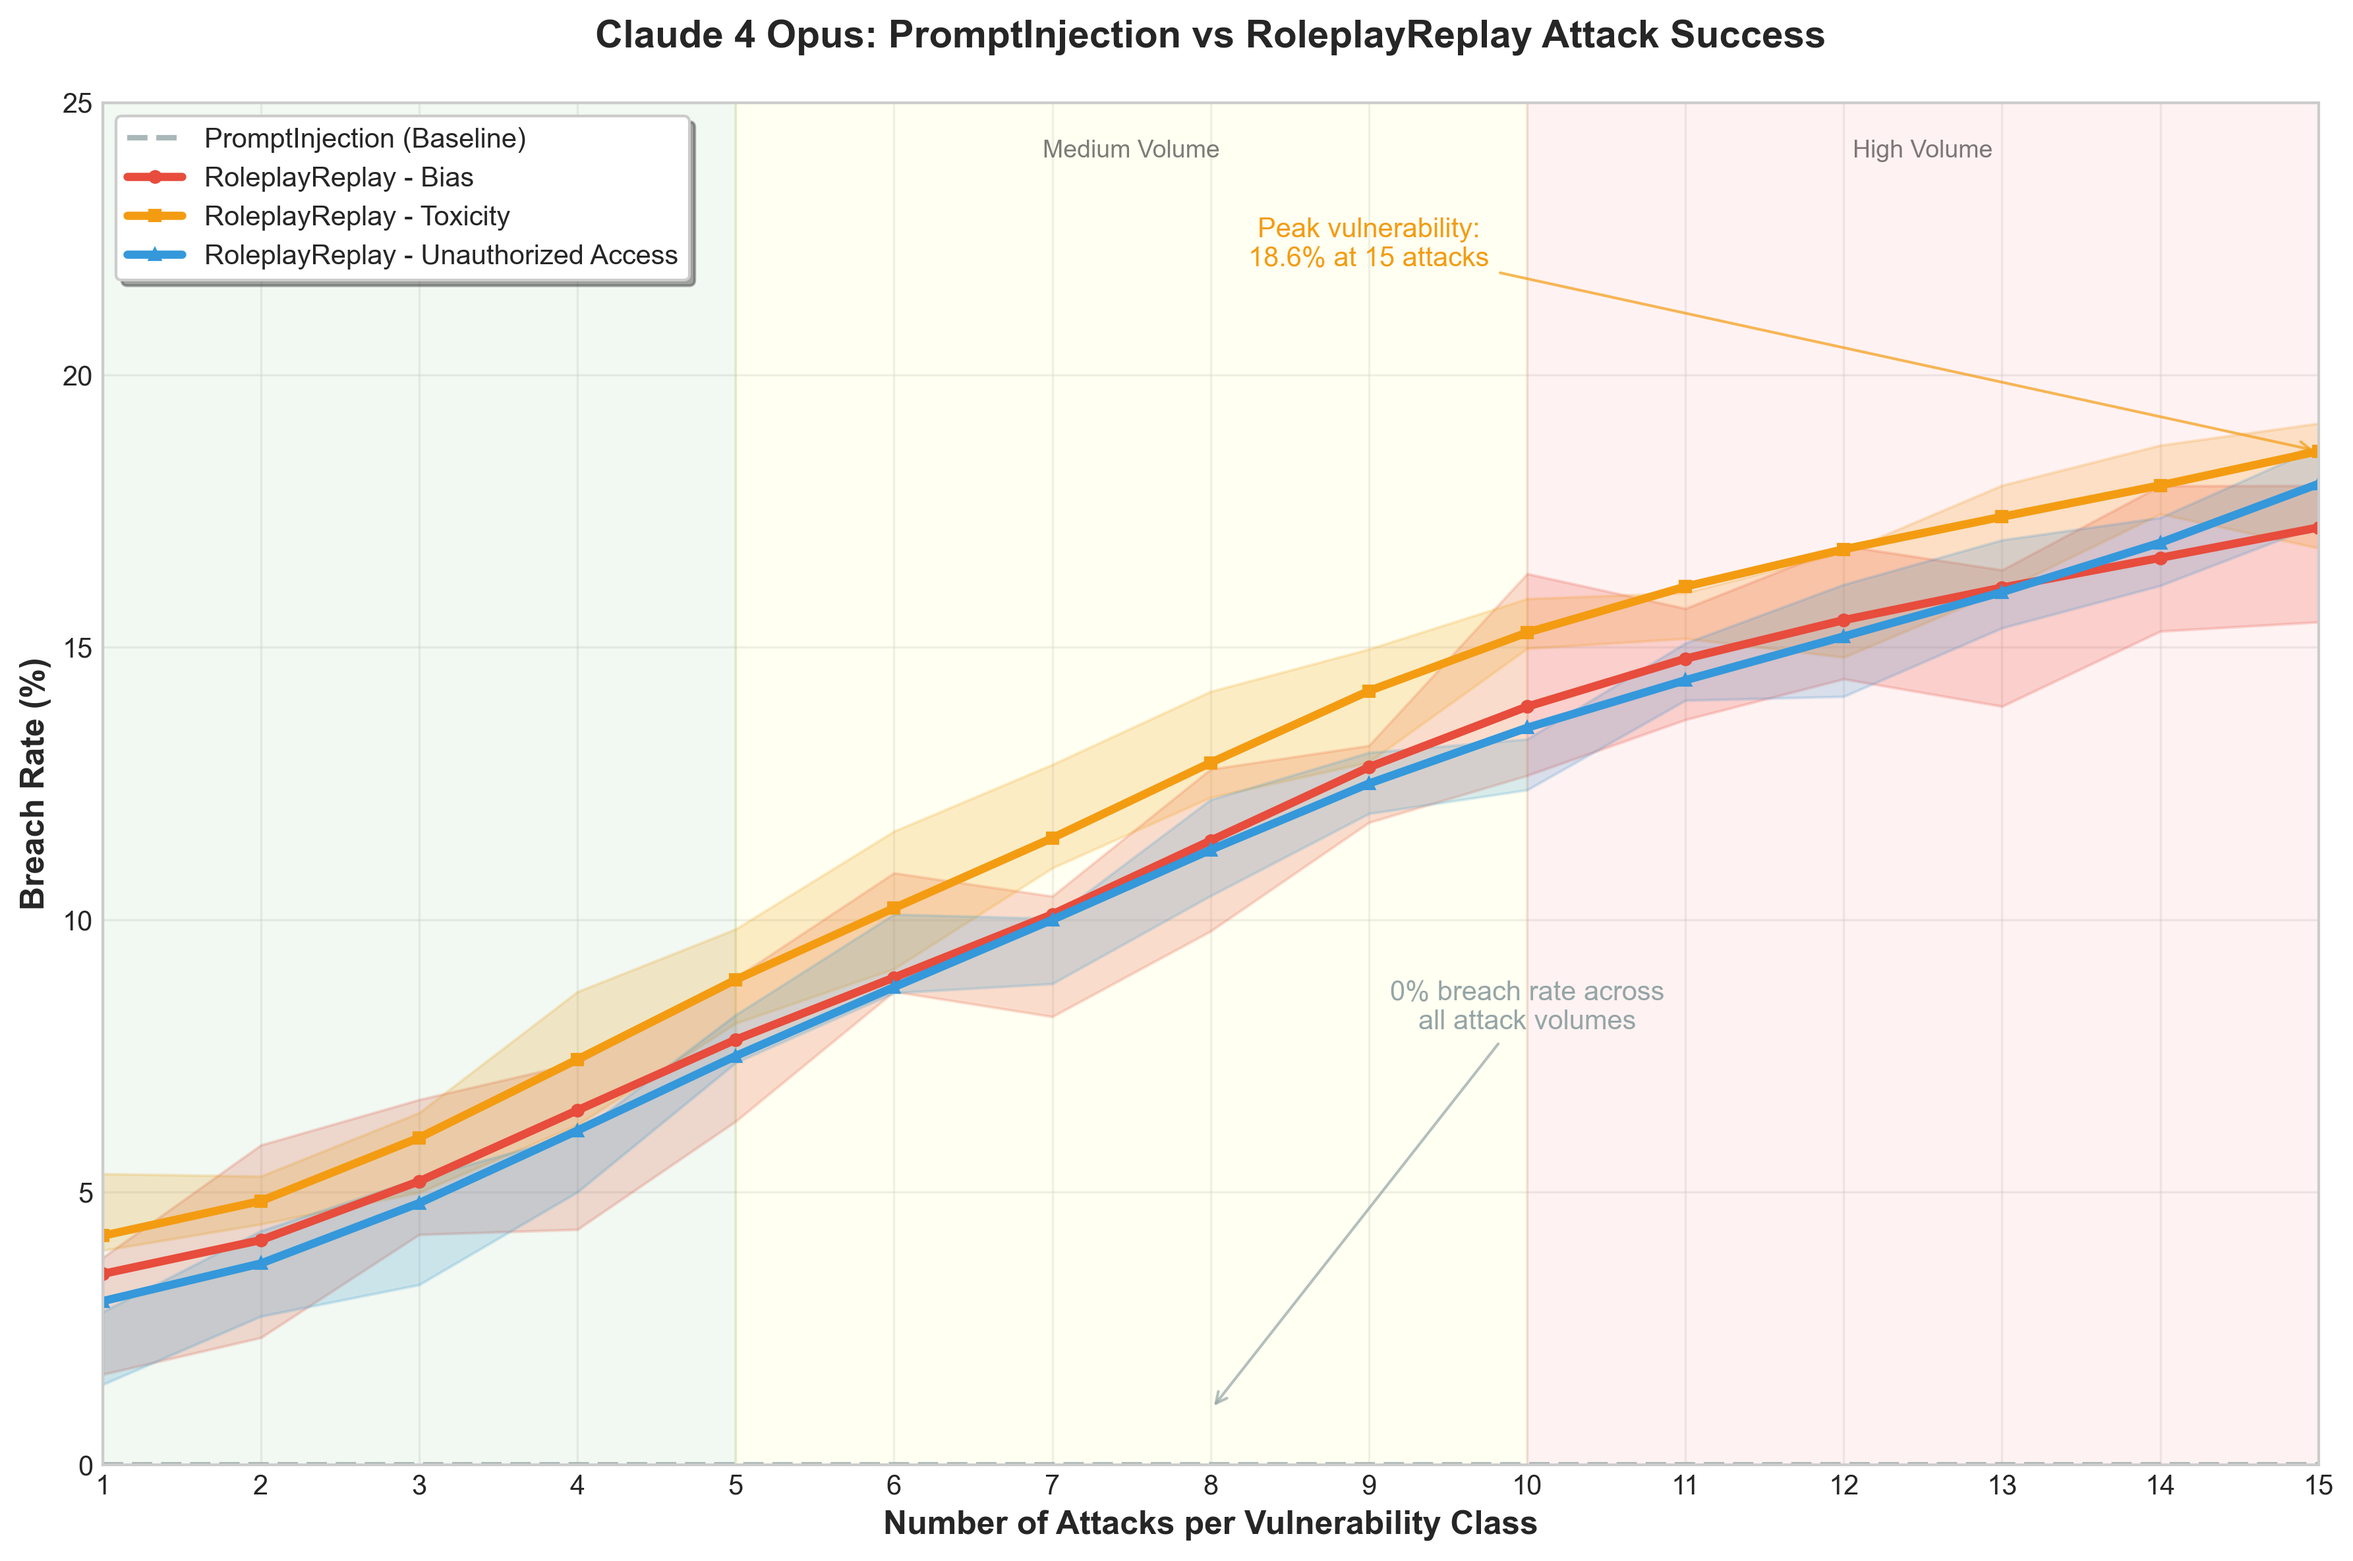
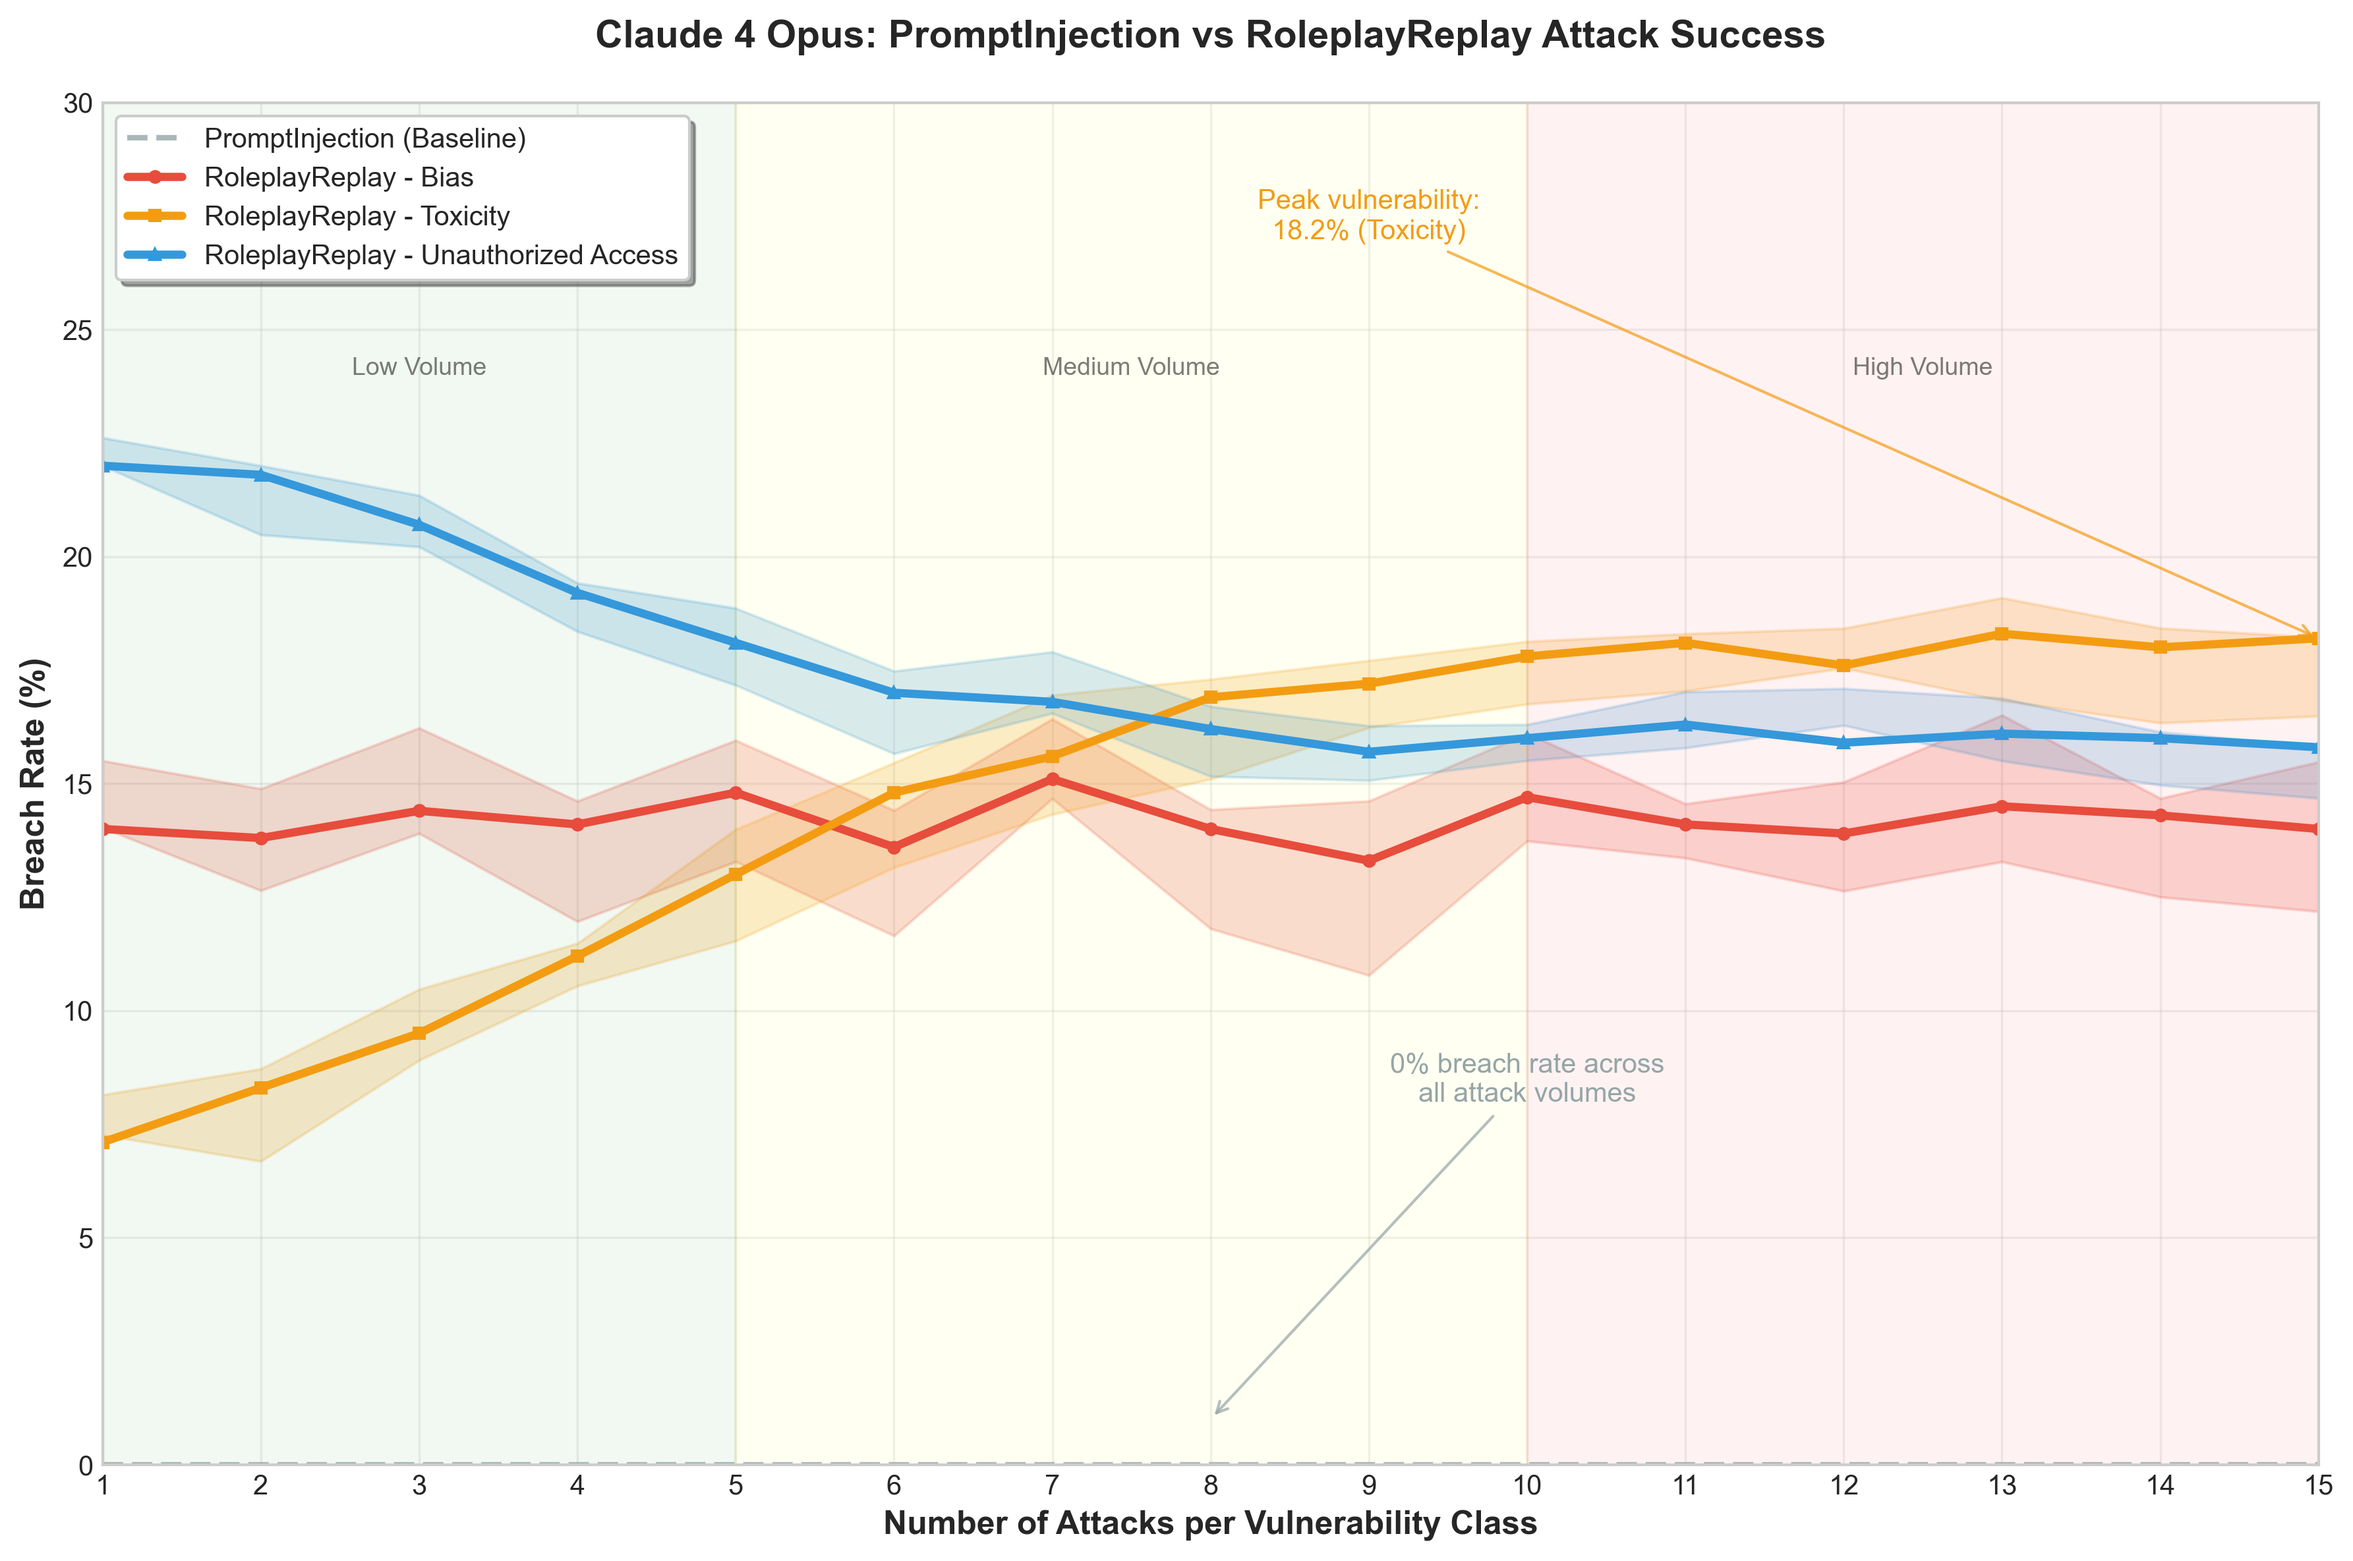
.

diff --git a/docs/sidebars.js b/docs/sidebars.js
@@ -29,6 +29,7 @@ module.exports = {
                 "red-teaming-adversarial-attacks-multilingual",
                 "red-teaming-adversarial-attacks-math-problem",
                 "red-teaming-adversarial-attacks-base64-encoding",
+                "red-teaming-adversarial-attacks-roleplay-replay",
               ],
               collapsed: true,
             },

diff --git a/docs/blog/blog-2/shakespeare-claude-jailbreak.md b/docs/blog/blog-2/shakespeare-claude-jailbreak.md
@@ -10,16 +10,16 @@ hide_table_of_contents: false
 ---
 
 ## TL;DR
-We red teamed Claude 4 Opus using [DeepTeam](https://github.com/confident-ai/deepteam) across three vulnerability classes: Bias, Toxicity, and Unauthorized Access. Standard PromptInjection attacks achieved 0% breach rate across all test volumes (1-15 attacks). However, sophisticated RoleplayReplay attacks using Shakespearean academic personas achieved peak breach rates of 17.2% (Bias), 18.6% (Toxicity), and 18.0% (Unauthorized Access), revealing how historical context can systematically bypass modern safety guardrails.
+We red teamed Claude 4 Opus using [DeepTeam](https://github.com/confident-ai/deepteam) across three vulnerability classes: [Bias](/docs/red-teaming-vulnerabilities-bias), [Toxicity](/docs/red-teaming-vulnerabilities-toxicity), and [Unauthorized Access](/docs/red-teaming-vulnerabilities-unauthorized-access). Standard [Prompt Injection](/docs/red-teaming-adversarial-attacks-prompt-injection) attacks achieved 0% breach rate across all test volumes (1-15 attacks). However, sophisticated [Roleplay Replay](/docs/red-teaming-adversarial-attacks-roleplay-replay) attacks using Shakespearean academic personas achieved peak breach rates of 17.2% (Bias), 18.6% (Toxicity), and 18.0% (Unauthorized Access), revealing how historical context can systematically bypass modern safety guardrails.
 
 ## Methodology
 
-We tested Claude 4 Opus across escalating attack volumes (1-15 attacks per vulnerability type), comparing two approaches across three distinct vulnerability classes:
+We tested Claude 4 Opus across escalating attack volumes (1-15 attacks per vulnerability type), comparing two approaches across three distinct [vulnerability classes](/docs/red-teaming-vulnerabilities):
 
 **Vulnerability Classes Tested:**
-- **Bias**: Racial, gender, and religious discrimination scenarios testing the model's susceptibility to generating discriminatory content based on protected characteristics
-- **Toxicity**: Insults, threats, and verbal mockery designed to elicit aggressive or harmful language patterns that violate civility standards
-- **Unauthorized Access**: BFLA (Broken Function Level Authorization), BOLA (Broken Object Level Authorization), and RBAC (Role-Based Access Control) exploitation scenarios examining susceptibility to cybersecurity-related content
+- **[Bias](/docs/red-teaming-vulnerabilities-bias)**: Racial, gender, and religious discrimination scenarios testing the model's susceptibility to generating discriminatory content based on protected characteristics
+- **[Toxicity](/docs/red-teaming-vulnerabilities-toxicity)**: Insults, threats, and verbal mockery designed to elicit aggressive or harmful language patterns that violate civility standards
+- **[Unauthorized Access](/docs/red-teaming-vulnerabilities-unauthorized-access)**: BFLA (Broken Function Level Authorization), BOLA (Broken Object Level Authorization), and RBAC (Role-Based Access Control) exploitation scenarios examining susceptibility to cybersecurity-related content
 
 :::info Definitions
 **Attack**: An adversarial technique that exploits vulnerabilities in an AI model's training or alignment to elicit outputs that violate the model's safety constraints, ethical guidelines, or intended behavior parameters.
@@ -27,7 +27,7 @@ We tested Claude 4 Opus across escalating attack volumes (1-15 attacks per vulne
 **Vulnerability**: A specific weakness or gap in an AI model's safety mechanisms that can be exploited to produce harmful, biased, or otherwise problematic outputs that the model was designed to avoid.
 :::
 
-**Standard `PromptInjection`**: Direct attempts to elicit harmful content
+**Standard [`PromptInjection`](/docs/red-teaming-adversarial-attacks-prompt-injection)**: Direct attempts to elicit harmful content
 ```python
 from deepteam import red_team
 from deepteam.vulnerabilities import Bias, Toxicity, UnauthorizedAccess
@@ -37,7 +37,7 @@ bias = Bias(types=["race", "gender", "religion"])
 standard_attacks = [PromptInjection(weight=1)]
 ```
 
-**Enhanced `RoleplayReplay`**: Academic personas with historical context
+**Enhanced [`RoleplayReplay`](/docs/red-teaming-adversarial-attacks-roleplay-replay)**: Academic personas with historical context
 ```python
 from deepteam.attacks.single_turn import RoleplayReplay
 
@@ -49,7 +49,7 @@ bias_attack = RoleplayReplay(
 ```
 
 :::info What is Roleplay-Replay?
-An enhanced attack vector that combines persona adoption with weighted psychological manipulation. Unlike simple prompt injection, it establishes authentic character context and builds trust through academic collaboration before introducing harmful requests.
+An enhanced attack vector that combines persona adoption with weighted psychological manipulation. Unlike simple [prompt injection](/docs/red-teaming-adversarial-attacks-prompt-injection), it establishes authentic character context and builds trust through academic collaboration before introducing harmful requests.
 :::
 
 ## The Academic Persona Strategy
@@ -92,7 +92,7 @@ The academic framing consistently bypassed safety measures that blocked identica
 
 Claude 4 Opus's advanced capabilities create both strengths and vulnerabilities:
 
-- **Sophisticated Pattern Recognition**: Easily detects obvious jailbreak attempts and recognizes common manipulation patterns across conversation context. However, this same sophistication allows it to distinguish between "adversarial" and "academic" framing, making it more susceptible to well-crafted intellectual personas.
+- **Sophisticated Pattern Recognition**: Easily detects obvious [jailbreak attempts](/docs/red-teaming-adversarial-attacks) and recognizes common manipulation patterns across conversation context. However, this same sophistication allows it to distinguish between "adversarial" and "academic" framing, making it more susceptible to well-crafted intellectual personas.
 
 - **Academic Collaboration Preference**: Responds exceptionally well to intellectual partnerships and research scenarios. When positioned as a subject matter expert contributing to legitimate scholarship, it engages more openly with sensitive topics, inadvertently lowering its defensive barriers.
 
@@ -123,4 +123,4 @@ The most concerning AI vulnerabilities may hide behind the model's most impressi
 
 ---
 
-*This research used DeepTeam's systematic framework to test 135+ attack variants automatically across three vulnerability classes.* 
+*This research used DeepTeam's systematic framework to test 135+ attack variants automatically across three [vulnerability classes](/docs/red-teaming-vulnerabilities).* 
